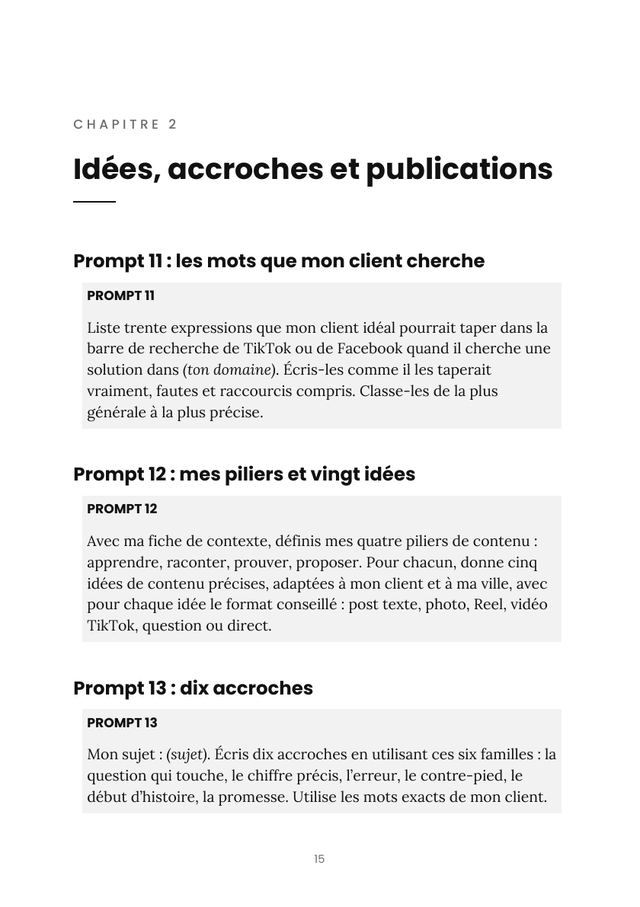
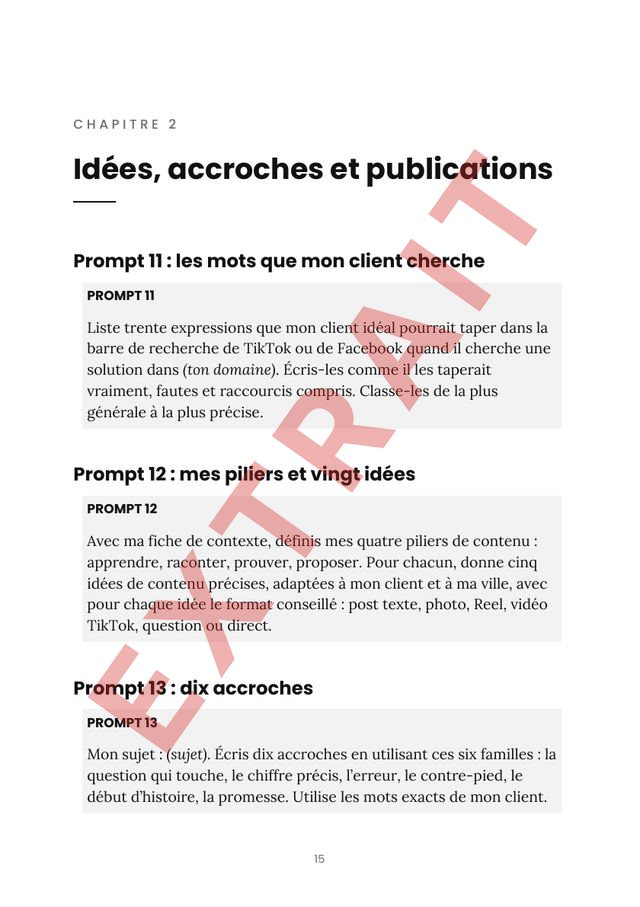
Extraits marqués « EXTRAIT » en rouge ; filigrane des PDF achetés plus grand et plus visible
Claude-Session: https://claude.ai/code/session_01SNjGUFU8ef62bMQC8mhdNt

diff --git a/src/glyphs.js b/src/glyphs.js
@@ -1,3 +1,3 @@
 // Généré par tools/glyphs.py (Inter Medium, 2048 unités par em).
 export const UPM = 2048;
-export const GLYPHS = {"a":[1163,"M461 -25C642 -25 748 66 791 153L802 153L802 0L1015 0L1015 742C1015 1065 758 1132 578 1132C379 1132 191 1054 115 854L322 800C353 876 435 953 581 953C721 953 795 881 795 757L795 751C795 672 710 673 513 650C302 626 83 570 83 316C83 96 248 -25 461 -25ZM510 152C387 152 299 207 299 313C299 428 401 470 525 487C593 496 763 514 796 546L796 403C796 272 689 152 510 152Z"],"b":[1266,"M703 -22C975 -22 1170 195 1170 556C1170 920 971 1132 703 1132C494 1132 419 1005 380 936L368 936L368 1490L148 1490L148 0L362 0L362 175L380 175C419 104 500 -22 703 -22ZM654 165C468 165 364 325 364 558C364 790 465 945 654 945C848 945 945 778 945 558C945 336 845 165 654 165Z"],"c":[1182,"M618 -23C853 -23 1035 104 1089 315L881 365C851 244 758 163 619 163C417 163 320 340 320 553C320 769 417 946 619 946C756 946 847 867 877 752L1086 802C1031 1009 850 1132 618 1132C303 1132 96 901 96 553C96 208 303 -23 618 -23Z"],"d":[1266,"M564 -22C766 -22 847 104 886 175L904 175L904 0L1118 0L1118 1490L898 1490L898 936L886 936C848 1005 772 1132 564 1132C295 1132 96 920 96 556C96 195 292 -22 564 -22ZM612 165C421 165 321 336 321 558C321 778 418 945 612 945C801 945 902 790 902 558C902 325 799 165 612 165Z"],"e":[1203,"M630 -23C869 -23 1040 94 1093 268L886 317C847 213 755 159 632 159C449 159 325 276 317 492L1110 492L1110 570C1110 973 866 1132 611 1132C298 1132 96 895 96 551C96 204 300 -23 630 -23ZM318 656C330 817 436 950 612 950C781 950 876 832 892 656Z"],"f":[777,"M702 1118L452 1118L452 1216C452 1314 495 1368 600 1368C646 1368 677 1358 698 1352L749 1530C719 1541 653 1560 565 1560C388 1560 232 1455 232 1246L232 1118L20 1118L20 939L232 939L232 0L452 0L452 939L702 939Z"],"g":[1269,"M616 -442C902 -442 1121 -310 1121 -16L1121 1118L906 1118L906 936L890 936C851 1006 772 1132 566 1132C297 1132 96 920 96 563C96 206 300 17 563 17C767 17 844 130 883 203L902 203L902 -15C902 -187 785 -265 615 -265C435 -265 365 -176 325 -112L141 -199C204 -334 357 -442 616 -442ZM614 200C422 200 321 348 321 566C321 779 419 945 614 945C803 945 903 790 903 566C903 337 800 200 614 200Z"],"h":[1232,"M368 662C368 839 478 940 628 940C774 940 864 844 864 683L864 0L1085 0L1085 710C1085 986 932 1132 704 1132C551 1132 436 1065 366 917L366 1490L148 1490L148 0L368 0Z"],"i":[516,"M148 0L368 0L368 1118L148 1118ZM259 1289C335 1289 398 1347 398 1419C398 1492 335 1550 259 1550C183 1550 120 1492 120 1419C120 1347 183 1289 259 1289Z"],"j":[516,"M147 1118L147 -71C147 -174 104 -229 1 -229L-34 -229L-34 -418L10 -418C241 -418 369 -300 368 -72L368 1118ZM258 1289C334 1289 397 1347 397 1419C397 1492 334 1550 258 1550C183 1550 120 1492 120 1419C120 1347 183 1289 258 1289Z"],"k":[1145,"M148 0L368 0L368 394L475 501L852 0L1124 0L643 636L1093 1118L829 1118L388 646L368 646L368 1490L148 1490Z"],"l":[516,"M368 1490L148 1490L148 0L368 0Z"],"m":[1819,"M148 0L368 0L368 695C368 858 474 944 597 944C715 944 801 865 801 746L801 0L1018 0L1018 716C1018 849 1102 944 1241 944C1355 944 1450 881 1450 732L1450 0L1671 0L1671 754C1671 1008 1515 1137 1317 1137C1158 1137 1020 1053 963 902C919 1050 823 1137 677 1137C544 1137 419 1064 362 909L357 1118L148 1118Z"],"n":[1232,"M368 662C368 839 478 940 628 940C774 940 864 844 864 683L864 0L1084 0L1084 710C1084 986 932 1132 704 1132C546 1132 429 1061 359 903L358 1118L148 1118L148 0L368 0Z"],"o":[1237,"M618 -23C933 -23 1141 208 1141 553C1141 901 933 1132 618 1132C303 1132 96 901 96 553C96 208 303 -23 618 -23ZM618 163C416 163 320 341 320 553C320 768 416 946 618 946C822 946 918 767 918 553C918 341 822 163 618 163Z"],"p":[1266,"M148 -418L368 -418L368 175L380 175C419 104 500 -22 703 -22C975 -22 1170 195 1170 556C1170 920 971 1132 703 1132C494 1132 419 1005 380 936L362 936L362 1118L148 1118ZM654 165C468 165 364 325 364 558C364 790 465 945 654 945C848 945 945 778 945 558C945 336 845 165 654 165Z"],"q":[1266,"M1118 -418L1118 1118L904 1118L904 936L886 936C848 1005 772 1132 564 1132C295 1132 96 920 96 556C96 195 292 -22 564 -22C766 -22 847 104 886 175L898 175L898 -418ZM612 165C421 165 321 336 321 558C321 778 418 945 612 945C801 945 902 790 902 558C902 325 799 165 612 165Z"],"r":[792,"M148 0L368 0L368 679C368 826 480 930 634 930C680 930 733 922 749 918L749 1128C726 1131 684 1134 656 1134C525 1134 414 1060 373 938L361 938L361 1118L148 1118Z"],"s":[1103,"M549 -23C822 -23 1010 121 1010 325C1010 480 912 580 705 627L525 667C402 695 352 739 352 813C352 897 444 958 565 958C697 958 760 888 789 810L986 853C938 1019 805 1132 563 1132C310 1132 130 999 130 799C130 639 230 537 438 490L626 447C732 423 783 377 783 306C783 223 693 155 551 155C421 155 336 209 305 326L98 283C138 85 306 -23 549 -23Z"],"t":[697,"M626 1118L403 1118L403 1384L183 1384L183 1118L20 1118L20 939L183 939L183 284C183 94 300 -15 503 -15C554 -15 610 -8 657 8L618 184C591 178 548 172 525 172C438 172 403 212 403 302L403 939L626 939Z"],"u":[1232,"M529 -14C683 -14 803 55 873 217L874 0L1085 0L1085 1118L864 1118L864 456C864 279 753 178 604 178C458 178 368 274 368 435L368 1118L148 1118L148 408C148 132 301 -14 529 -14Z"],"v":[1177,"M468 0L708 0L1130 1118L894 1118L673 483C639 384 615 286 590 188C565 286 539 384 505 483L284 1118L46 1118Z"],"w":[1698,"M393 0L614 0L752 481C785 596 817 733 849 867C880 733 911 598 945 481L1083 0L1304 0L1641 1118L1407 1118L1284 655C1252 531 1217 390 1183 221C1149 391 1113 533 1082 655L960 1118L740 1118L617 655C584 530 548 387 514 219C480 393 443 535 412 655L289 1118L57 1118Z"],"x":[1141,"M57 0L302 0L454 238C501 312 535 382 568 448C604 382 640 312 687 238L837 0L1084 0L703 566L1067 1118L823 1118L694 915C645 837 610 765 575 696C539 765 502 837 454 915L328 1118L80 1118L439 574Z"],"y":[1178,"M133 -402C160 -414 218 -426 287 -426C467 -426 578 -334 646 -155L1132 1118L896 1118L671 483C636 386 611 289 586 193C562 289 539 385 505 483L284 1118L46 1118L471 -5L447 -87C406 -231 326 -259 212 -229L187 -223Z"],"z":[1145,"M124 0L1021 0L1021 192L422 192L422 202L1001 956L1001 1118L143 1118L143 926L726 926L726 916L124 150Z"],"0":[1322,"M661 -20C1009 -20 1209 260 1209 744C1209 1227 1006 1510 661 1510C316 1510 113 1227 113 744C113 259 314 -20 661 -20ZM661 175C454 175 338 383 338 744C338 1106 454 1316 661 1316C867 1316 983 1107 983 744C983 383 867 175 661 175Z"],"1":[850,"M685 1490L421 1490L95 1254L95 1025L449 1283L459 1283L459 0L685 0Z"],"2":[1262,"M144 0L1128 0L1128 195L460 195L460 207L752 512C1029 792 1105 923 1105 1086C1105 1327 909 1510 626 1510C347 1510 142 1328 142 1056L361 1056C361 1216 463 1319 622 1319C773 1319 886 1227 886 1078C886 947 805 851 650 688L144 165Z"],"3":[1284,"M643 -20C948 -20 1171 162 1171 409C1171 596 1059 732 860 763L860 774C1016 815 1117 936 1117 1104C1117 1323 936 1510 649 1510C373 1510 154 1343 147 1102L367 1102C372 1238 501 1319 645 1319C796 1319 895 1228 895 1091C895 949 781 855 617 855L490 855L490 669L617 669C822 669 940 565 940 417C940 273 815 176 641 176C481 176 356 258 347 390L116 390C124 146 340 -20 643 -20Z"],"4":[1344,"M114 290L819 290L819 0L1038 0L1038 290L1234 290L1234 484L1038 484L1038 1490L756 1490L114 474ZM821 484L352 484L352 496L809 1219L821 1219Z"],"5":[1266,"M639 -20C939 -20 1154 192 1154 482C1154 770 954 978 682 978C570 978 467 937 409 879L401 879L448 1295L1080 1295L1080 1490L257 1490L174 737L384 707C439 756 538 791 629 791C804 791 931 659 931 478C931 299 808 172 639 172C496 172 380 262 370 390L148 390C157 153 362 -20 639 -20Z"],"6":[1290,"M659 -20C971 -20 1178 201 1178 487C1178 772 971 976 713 976C556 976 420 900 344 774L333 774C333 1111 459 1310 678 1310C820 1310 910 1223 940 1102L1164 1102C1130 1340 942 1510 678 1510C330 1510 113 1212 113 695C113 147 392 -20 659 -20ZM658 172C487 172 361 316 361 482C361 647 493 791 662 791C831 791 956 655 956 484C956 309 826 172 658 172Z"],"7":[1170,"M192 0L431 0L1079 1287L1079 1490L90 1490L90 1295L840 1295L840 1283Z"],"8":[1289,"M644 -20C955 -20 1177 155 1177 397C1177 585 1043 743 876 773L876 781C1021 817 1121 953 1121 1113C1121 1340 917 1510 644 1510C368 1510 167 1341 167 1113C167 953 264 817 414 781L414 773C242 743 113 585 113 397C113 155 331 -20 644 -20ZM644 165C459 165 343 264 343 412C343 566 469 676 644 676C816 676 944 566 944 412C944 264 826 165 644 165ZM644 857C494 857 389 952 389 1092C389 1232 491 1323 644 1323C795 1323 899 1231 899 1092C899 952 791 857 644 857Z"],"9":[1290,"M614 -21C961 -21 1178 278 1178 796C1178 1343 898 1507 635 1511C321 1515 113 1290 113 1004C113 720 319 515 579 515C737 515 872 593 948 717L959 717C959 378 831 179 614 179C470 179 380 268 352 391L126 391C159 150 347 -21 614 -21ZM628 700C459 700 336 835 336 1008C336 1180 464 1318 633 1318C805 1318 931 1173 931 1011C931 845 798 700 628 700Z"],".":[621,"M311 -15C393 -15 458 50 458 132C458 215 393 280 311 280C228 280 163 215 163 132C163 50 228 -15 311 -15Z"],"-":[947,"M805 724L143 724L143 533L805 533Z"],"_":[948,"M948 0L0 0L0 -188L948 -188Z"],"+":[1367,"M585 94L782 94L782 494L1176 494L1176 680L782 680L782 1080L585 1080L585 680L191 680L191 494L585 494Z"],"@":[2012,"M1050 -406C1219 -406 1410 -360 1504 -318L1449 -156C1382 -181 1223 -233 1062 -233C571 -233 308 38 308 521C308 996 573 1280 1035 1280C1493 1280 1713 979 1713 628C1713 324 1675 188 1536 188C1458 188 1418 248 1418 323L1418 987L1244 987L1244 897L1234 897C1197 956 1105 1011 977 1011C731 1011 556 809 556 532C556 245 699 33 968 33C1121 33 1215 106 1251 197L1259 197C1277 75 1420 29 1532 29C1837 29 1900 333 1900 634C1900 1068 1591 1452 1033 1452C450 1452 113 1093 113 522C113 -70 449 -406 1050 -406ZM982 206C804 206 733 360 733 539C733 703 826 835 986 835C1154 835 1244 762 1244 539C1244 317 1166 206 982 206Z"],"%":[2034,"M519 814C715 814 821 956 821 1125L821 1203C821 1371 718 1514 519 1514C325 1514 215 1372 215 1203L215 1125C215 957 321 814 519 814ZM1516 -28C1712 -28 1819 114 1819 283L1819 361C1819 530 1715 672 1516 672C1322 672 1213 530 1213 361L1213 283C1213 115 1318 -28 1516 -28ZM409 0L591 0L1615 1490L1433 1490ZM1516 120C1418 120 1384 200 1384 283L1384 361C1384 443 1420 525 1516 525C1617 525 1647 444 1647 361L1647 283C1647 200 1614 120 1516 120ZM519 962C421 962 387 1041 387 1125L387 1203C387 1285 423 1367 519 1367C619 1367 650 1286 650 1203L650 1125C650 1041 616 962 519 962Z"],"'":[641,"M232 905L408 905L433 1490L207 1490Z"],"E":[1235,"M165 0L1109 0L1109 196L393 196L393 655L1053 655L1053 850L393 850L393 1294L1103 1294L1103 1490L165 1490Z"]," ":[546,""],":":[621,"M311 772C393 772 458 837 458 919C458 1001 393 1066 311 1066C228 1066 163 1001 163 919C163 837 228 772 311 772ZM311 -15C393 -15 458 50 458 132C458 215 393 280 311 280C228 280 163 215 163 132C163 50 228 -15 311 -15Z"]};
+export const GLYPHS = {"a":[1163,"M461 -25C642 -25 748 66 791 153L802 153L802 0L1015 0L1015 742C1015 1065 758 1132 578 1132C379 1132 191 1054 115 854L322 800C353 876 435 953 581 953C721 953 795 881 795 757L795 751C795 672 710 673 513 650C302 626 83 570 83 316C83 96 248 -25 461 -25ZM510 152C387 152 299 207 299 313C299 428 401 470 525 487C593 496 763 514 796 546L796 403C796 272 689 152 510 152Z"],"b":[1266,"M703 -22C975 -22 1170 195 1170 556C1170 920 971 1132 703 1132C494 1132 419 1005 380 936L368 936L368 1490L148 1490L148 0L362 0L362 175L380 175C419 104 500 -22 703 -22ZM654 165C468 165 364 325 364 558C364 790 465 945 654 945C848 945 945 778 945 558C945 336 845 165 654 165Z"],"c":[1182,"M618 -23C853 -23 1035 104 1089 315L881 365C851 244 758 163 619 163C417 163 320 340 320 553C320 769 417 946 619 946C756 946 847 867 877 752L1086 802C1031 1009 850 1132 618 1132C303 1132 96 901 96 553C96 208 303 -23 618 -23Z"],"d":[1266,"M564 -22C766 -22 847 104 886 175L904 175L904 0L1118 0L1118 1490L898 1490L898 936L886 936C848 1005 772 1132 564 1132C295 1132 96 920 96 556C96 195 292 -22 564 -22ZM612 165C421 165 321 336 321 558C321 778 418 945 612 945C801 945 902 790 902 558C902 325 799 165 612 165Z"],"e":[1203,"M630 -23C869 -23 1040 94 1093 268L886 317C847 213 755 159 632 159C449 159 325 276 317 492L1110 492L1110 570C1110 973 866 1132 611 1132C298 1132 96 895 96 551C96 204 300 -23 630 -23ZM318 656C330 817 436 950 612 950C781 950 876 832 892 656Z"],"f":[777,"M702 1118L452 1118L452 1216C452 1314 495 1368 600 1368C646 1368 677 1358 698 1352L749 1530C719 1541 653 1560 565 1560C388 1560 232 1455 232 1246L232 1118L20 1118L20 939L232 939L232 0L452 0L452 939L702 939Z"],"g":[1269,"M616 -442C902 -442 1121 -310 1121 -16L1121 1118L906 1118L906 936L890 936C851 1006 772 1132 566 1132C297 1132 96 920 96 563C96 206 300 17 563 17C767 17 844 130 883 203L902 203L902 -15C902 -187 785 -265 615 -265C435 -265 365 -176 325 -112L141 -199C204 -334 357 -442 616 -442ZM614 200C422 200 321 348 321 566C321 779 419 945 614 945C803 945 903 790 903 566C903 337 800 200 614 200Z"],"h":[1232,"M368 662C368 839 478 940 628 940C774 940 864 844 864 683L864 0L1085 0L1085 710C1085 986 932 1132 704 1132C551 1132 436 1065 366 917L366 1490L148 1490L148 0L368 0Z"],"i":[516,"M148 0L368 0L368 1118L148 1118ZM259 1289C335 1289 398 1347 398 1419C398 1492 335 1550 259 1550C183 1550 120 1492 120 1419C120 1347 183 1289 259 1289Z"],"j":[516,"M147 1118L147 -71C147 -174 104 -229 1 -229L-34 -229L-34 -418L10 -418C241 -418 369 -300 368 -72L368 1118ZM258 1289C334 1289 397 1347 397 1419C397 1492 334 1550 258 1550C183 1550 120 1492 120 1419C120 1347 183 1289 258 1289Z"],"k":[1145,"M148 0L368 0L368 394L475 501L852 0L1124 0L643 636L1093 1118L829 1118L388 646L368 646L368 1490L148 1490Z"],"l":[516,"M368 1490L148 1490L148 0L368 0Z"],"m":[1819,"M148 0L368 0L368 695C368 858 474 944 597 944C715 944 801 865 801 746L801 0L1018 0L1018 716C1018 849 1102 944 1241 944C1355 944 1450 881 1450 732L1450 0L1671 0L1671 754C1671 1008 1515 1137 1317 1137C1158 1137 1020 1053 963 902C919 1050 823 1137 677 1137C544 1137 419 1064 362 909L357 1118L148 1118Z"],"n":[1232,"M368 662C368 839 478 940 628 940C774 940 864 844 864 683L864 0L1084 0L1084 710C1084 986 932 1132 704 1132C546 1132 429 1061 359 903L358 1118L148 1118L148 0L368 0Z"],"o":[1237,"M618 -23C933 -23 1141 208 1141 553C1141 901 933 1132 618 1132C303 1132 96 901 96 553C96 208 303 -23 618 -23ZM618 163C416 163 320 341 320 553C320 768 416 946 618 946C822 946 918 767 918 553C918 341 822 163 618 163Z"],"p":[1266,"M148 -418L368 -418L368 175L380 175C419 104 500 -22 703 -22C975 -22 1170 195 1170 556C1170 920 971 1132 703 1132C494 1132 419 1005 380 936L362 936L362 1118L148 1118ZM654 165C468 165 364 325 364 558C364 790 465 945 654 945C848 945 945 778 945 558C945 336 845 165 654 165Z"],"q":[1266,"M1118 -418L1118 1118L904 1118L904 936L886 936C848 1005 772 1132 564 1132C295 1132 96 920 96 556C96 195 292 -22 564 -22C766 -22 847 104 886 175L898 175L898 -418ZM612 165C421 165 321 336 321 558C321 778 418 945 612 945C801 945 902 790 902 558C902 325 799 165 612 165Z"],"r":[792,"M148 0L368 0L368 679C368 826 480 930 634 930C680 930 733 922 749 918L749 1128C726 1131 684 1134 656 1134C525 1134 414 1060 373 938L361 938L361 1118L148 1118Z"],"s":[1103,"M549 -23C822 -23 1010 121 1010 325C1010 480 912 580 705 627L525 667C402 695 352 739 352 813C352 897 444 958 565 958C697 958 760 888 789 810L986 853C938 1019 805 1132 563 1132C310 1132 130 999 130 799C130 639 230 537 438 490L626 447C732 423 783 377 783 306C783 223 693 155 551 155C421 155 336 209 305 326L98 283C138 85 306 -23 549 -23Z"],"t":[697,"M626 1118L403 1118L403 1384L183 1384L183 1118L20 1118L20 939L183 939L183 284C183 94 300 -15 503 -15C554 -15 610 -8 657 8L618 184C591 178 548 172 525 172C438 172 403 212 403 302L403 939L626 939Z"],"u":[1232,"M529 -14C683 -14 803 55 873 217L874 0L1085 0L1085 1118L864 1118L864 456C864 279 753 178 604 178C458 178 368 274 368 435L368 1118L148 1118L148 408C148 132 301 -14 529 -14Z"],"v":[1177,"M468 0L708 0L1130 1118L894 1118L673 483C639 384 615 286 590 188C565 286 539 384 505 483L284 1118L46 1118Z"],"w":[1698,"M393 0L614 0L752 481C785 596 817 733 849 867C880 733 911 598 945 481L1083 0L1304 0L1641 1118L1407 1118L1284 655C1252 531 1217 390 1183 221C1149 391 1113 533 1082 655L960 1118L740 1118L617 655C584 530 548 387 514 219C480 393 443 535 412 655L289 1118L57 1118Z"],"x":[1141,"M57 0L302 0L454 238C501 312 535 382 568 448C604 382 640 312 687 238L837 0L1084 0L703 566L1067 1118L823 1118L694 915C645 837 610 765 575 696C539 765 502 837 454 915L328 1118L80 1118L439 574Z"],"y":[1178,"M133 -402C160 -414 218 -426 287 -426C467 -426 578 -334 646 -155L1132 1118L896 1118L671 483C636 386 611 289 586 193C562 289 539 385 505 483L284 1118L46 1118L471 -5L447 -87C406 -231 326 -259 212 -229L187 -223Z"],"z":[1145,"M124 0L1021 0L1021 192L422 192L422 202L1001 956L1001 1118L143 1118L143 926L726 926L726 916L124 150Z"],"A":[1452,"M51 0L298 0L431 393L1017 393L1154 0L1401 0L861 1490L581 1490ZM496 583L579 829C616 943 662 1098 720 1311C779 1100 824 948 864 829L950 583Z"],"B":[1345,"M165 0L738 0C1084 0 1241 173 1241 402C1241 631 1080 761 931 769L931 784C1069 818 1183 913 1183 1099C1183 1319 1030 1490 714 1490L165 1490ZM393 196L393 669L724 669C902 669 1015 554 1015 413C1015 289 929 196 715 196ZM393 845L393 1295L698 1295C875 1295 959 1202 959 1080C959 937 843 845 692 845Z"],"C":[1502,"M784 -20C1113 -20 1353 188 1399 483L1169 483C1131 293 972 188 786 188C531 188 339 382 339 744C339 1104 530 1302 786 1302C972 1302 1131 1198 1169 1008L1398 1008C1348 1324 1098 1510 784 1510C398 1510 113 1222 113 744C113 268 397 -20 784 -20Z"],"D":[1478,"M650 0C1103 0 1366 281 1366 747C1366 1210 1103 1490 664 1490L165 1490L165 0ZM393 200L393 1290L649 1290C974 1290 1142 1097 1142 747C1142 394 974 200 637 200Z"],"E":[1235,"M165 0L1109 0L1109 196L393 196L393 655L1053 655L1053 850L393 850L393 1294L1103 1294L1103 1490L165 1490Z"],"F":[1207,"M165 0L393 0L393 620L1025 620L1025 815L393 815L393 1294L1092 1294L1092 1490L165 1490Z"],"G":[1531,"M791 -20C1152 -20 1413 216 1413 593L1413 764L825 764L825 576L1190 576C1185 338 1028 188 792 188C529 188 339 386 339 745C339 1105 532 1302 783 1302C979 1302 1112 1193 1166 1019L1400 1019C1350 1309 1102 1510 781 1510C395 1510 113 1220 113 744C113 273 386 -20 791 -20Z"],"H":[1525,"M165 0L393 0L393 664L1131 664L1131 0L1360 0L1360 1490L1131 1490L1131 860L393 860L393 1490L165 1490Z"],"I":[558,"M393 1490L165 1490L165 0L393 0Z"],"J":[1178,"M552 -20C830 -20 1013 143 1013 434L1013 1490L786 1490L786 432C786 263 693 173 552 173C411 173 318 263 318 432L318 516L89 516L89 433C89 143 274 -20 552 -20Z"],"K":[1408,"M165 0L393 0L393 468L602 692L1083 0L1353 0L761 845L1347 1490L1057 1490L639 1027C544 920 466 824 390 717L393 1014L393 1490L165 1490Z"],"L":[1158,"M165 0L1068 0L1068 196L393 196L393 1490L165 1490Z"],"M":[1869,"M165 0L387 0L387 802C387 916 382 1107 378 1263C435 1079 494 892 528 802L837 0L1032 0L1337 802C1371 895 1433 1087 1486 1268C1483 1102 1478 912 1478 802L1478 0L1705 0L1705 1490L1367 1490L1047 635C1018 553 971 387 936 254C902 390 855 555 826 635L501 1490L165 1490Z"],"N":[1549,"M165 0L396 0L396 795C396 872 388 1026 379 1213C487 1013 544 910 617 793L1120 0L1384 0L1384 1490L1153 1490L1153 642C1153 556 1157 417 1168 273C1102 416 1035 529 989 603L428 1490L165 1490Z"],"O":[1570,"M786 -20C1172 -20 1457 268 1457 744C1457 1222 1172 1510 786 1510C399 1510 113 1222 113 744C113 268 399 -20 786 -20ZM786 188C530 188 339 384 339 744C339 1105 530 1302 786 1302C1040 1302 1231 1106 1231 744C1231 384 1040 188 786 188Z"],"P":[1314,"M165 0L393 0L393 522L697 522C1043 522 1215 731 1215 1006C1215 1281 1044 1490 699 1490L165 1490ZM393 715L393 1295L673 1295C894 1295 984 1174 984 1006C984 838 894 715 675 715Z"],"Q":[1574,"M786 -20C882 -20 971 -2 1052 32L1179 -135L1406 -135L1207 126C1362 256 1457 468 1457 744C1457 1222 1172 1510 786 1510C399 1510 113 1222 113 744C113 268 399 -20 786 -20ZM713 481L921 208C878 195 833 188 786 188C530 188 339 384 339 744C339 1105 530 1302 786 1302C1040 1302 1231 1106 1231 744C1231 541 1171 391 1073 298L932 481Z"],"R":[1327,"M165 0L393 0L393 563L697 563C701 563 706 563 710 563L1012 0L1271 0L943 602C1124 670 1215 822 1215 1022C1215 1297 1044 1490 699 1490L165 1490ZM393 758L393 1295L673 1295C893 1295 984 1190 984 1022C984 855 893 758 675 758Z"],"S":[1323,"M665 -25C1015 -25 1217 159 1217 412C1217 681 978 783 788 832L643 870C529 900 375 953 375 1094C375 1220 489 1312 670 1312C839 1312 960 1234 975 1098L1197 1098C1190 1335 981 1510 675 1510C375 1510 147 1339 147 1081C147 877 291 752 535 687L709 639C869 596 992 545 992 415C992 271 853 175 664 175C492 175 348 251 335 414L106 414C120 142 330 -25 665 -25Z"],"T":[1337,"M90 1294L555 1294L555 0L784 0L784 1294L1247 1294L1247 1490L90 1490Z"],"U":[1516,"M759 -23C1115 -23 1351 199 1351 512L1351 1490L1122 1490L1122 531C1122 330 983 184 759 184C534 184 393 330 393 531L393 1490L165 1490L165 512C165 199 400 -23 759 -23Z"],"V":[1452,"M590 0L869 0L1401 1490L1154 1490L872 661C835 548 789 395 731 183C672 391 625 548 587 661L297 1490L51 1490Z"],"W":[2054,"M455 0L719 0L955 883C984 993 1004 1103 1026 1225C1048 1096 1071 983 1097 883L1334 0L1597 0L2003 1490L1761 1490L1546 636C1515 506 1487 364 1461 223C1433 364 1405 506 1371 636L1152 1490L902 1490L681 636C647 505 618 361 591 217C566 361 538 505 506 636L291 1490L51 1490Z"],"X":[1435,"M55 0L317 0L563 356C638 465 673 522 718 608C764 520 797 464 871 356L1114 0L1380 0L852 770L1347 1490L1088 1490L887 1196C805 1075 768 1008 720 914C672 1009 637 1074 555 1196L358 1490L93 1490L589 763Z"],"Y":[1426,"M600 0L828 0L828 593L1375 1490L1110 1490L833 1015C789 940 753 873 716 783C679 871 643 937 597 1015L317 1490L51 1490L600 593Z"],"Z":[1312,"M125 0L1193 0L1193 196L686 196C586 196 487 196 388 191C445 263 502 336 552 409L1187 1338L1187 1490L119 1490L119 1294L630 1294C728 1294 826 1294 924 1299C870 1231 817 1163 770 1095L125 150Z"],"0":[1322,"M661 -20C1009 -20 1209 260 1209 744C1209 1227 1006 1510 661 1510C316 1510 113 1227 113 744C113 259 314 -20 661 -20ZM661 175C454 175 338 383 338 744C338 1106 454 1316 661 1316C867 1316 983 1107 983 744C983 383 867 175 661 175Z"],"1":[850,"M685 1490L421 1490L95 1254L95 1025L449 1283L459 1283L459 0L685 0Z"],"2":[1262,"M144 0L1128 0L1128 195L460 195L460 207L752 512C1029 792 1105 923 1105 1086C1105 1327 909 1510 626 1510C347 1510 142 1328 142 1056L361 1056C361 1216 463 1319 622 1319C773 1319 886 1227 886 1078C886 947 805 851 650 688L144 165Z"],"3":[1284,"M643 -20C948 -20 1171 162 1171 409C1171 596 1059 732 860 763L860 774C1016 815 1117 936 1117 1104C1117 1323 936 1510 649 1510C373 1510 154 1343 147 1102L367 1102C372 1238 501 1319 645 1319C796 1319 895 1228 895 1091C895 949 781 855 617 855L490 855L490 669L617 669C822 669 940 565 940 417C940 273 815 176 641 176C481 176 356 258 347 390L116 390C124 146 340 -20 643 -20Z"],"4":[1344,"M114 290L819 290L819 0L1038 0L1038 290L1234 290L1234 484L1038 484L1038 1490L756 1490L114 474ZM821 484L352 484L352 496L809 1219L821 1219Z"],"5":[1266,"M639 -20C939 -20 1154 192 1154 482C1154 770 954 978 682 978C570 978 467 937 409 879L401 879L448 1295L1080 1295L1080 1490L257 1490L174 737L384 707C439 756 538 791 629 791C804 791 931 659 931 478C931 299 808 172 639 172C496 172 380 262 370 390L148 390C157 153 362 -20 639 -20Z"],"6":[1290,"M659 -20C971 -20 1178 201 1178 487C1178 772 971 976 713 976C556 976 420 900 344 774L333 774C333 1111 459 1310 678 1310C820 1310 910 1223 940 1102L1164 1102C1130 1340 942 1510 678 1510C330 1510 113 1212 113 695C113 147 392 -20 659 -20ZM658 172C487 172 361 316 361 482C361 647 493 791 662 791C831 791 956 655 956 484C956 309 826 172 658 172Z"],"7":[1170,"M192 0L431 0L1079 1287L1079 1490L90 1490L90 1295L840 1295L840 1283Z"],"8":[1289,"M644 -20C955 -20 1177 155 1177 397C1177 585 1043 743 876 773L876 781C1021 817 1121 953 1121 1113C1121 1340 917 1510 644 1510C368 1510 167 1341 167 1113C167 953 264 817 414 781L414 773C242 743 113 585 113 397C113 155 331 -20 644 -20ZM644 165C459 165 343 264 343 412C343 566 469 676 644 676C816 676 944 566 944 412C944 264 826 165 644 165ZM644 857C494 857 389 952 389 1092C389 1232 491 1323 644 1323C795 1323 899 1231 899 1092C899 952 791 857 644 857Z"],"9":[1290,"M614 -21C961 -21 1178 278 1178 796C1178 1343 898 1507 635 1511C321 1515 113 1290 113 1004C113 720 319 515 579 515C737 515 872 593 948 717L959 717C959 378 831 179 614 179C470 179 380 268 352 391L126 391C159 150 347 -21 614 -21ZM628 700C459 700 336 835 336 1008C336 1180 464 1318 633 1318C805 1318 931 1173 931 1011C931 845 798 700 628 700Z"],".":[621,"M311 -15C393 -15 458 50 458 132C458 215 393 280 311 280C228 280 163 215 163 132C163 50 228 -15 311 -15Z"],",":[621,"M125 -371L285 -371L450 214L213 214Z"],";":[646,"M125 -371L285 -371L450 214L213 214ZM335 772C418 772 483 837 483 919C483 1001 418 1066 335 1066C253 1066 188 1001 188 919C188 837 253 772 335 772Z"],"!":[623,"M205 477L417 477L433 1490L189 1490ZM312 -15C396 -15 461 48 461 131C461 214 396 277 312 277C227 277 163 214 163 131C163 48 227 -15 312 -15Z"],"?":[1080,"M385 452L595 452L595 467C595 633 645 684 770 760C902 840 980 950 980 1114C980 1350 800 1510 532 1510C288 1510 89 1368 81 1104L304 1104C313 1256 421 1323 532 1323C655 1323 754 1242 754 1115C754 1006 686 930 597 876C464 795 385 734 385 467ZM492 -15C576 -15 641 48 641 131C641 214 576 277 492 277C407 277 343 214 343 131C343 48 407 -15 492 -15Z"],"-":[947,"M805 724L143 724L143 533L805 533Z"],"_":[948,"M948 0L0 0L0 -188L948 -188Z"],"+":[1367,"M585 94L782 94L782 494L1176 494L1176 680L782 680L782 1080L585 1080L585 680L191 680L191 494L585 494Z"],"@":[2012,"M1050 -406C1219 -406 1410 -360 1504 -318L1449 -156C1382 -181 1223 -233 1062 -233C571 -233 308 38 308 521C308 996 573 1280 1035 1280C1493 1280 1713 979 1713 628C1713 324 1675 188 1536 188C1458 188 1418 248 1418 323L1418 987L1244 987L1244 897L1234 897C1197 956 1105 1011 977 1011C731 1011 556 809 556 532C556 245 699 33 968 33C1121 33 1215 106 1251 197L1259 197C1277 75 1420 29 1532 29C1837 29 1900 333 1900 634C1900 1068 1591 1452 1033 1452C450 1452 113 1093 113 522C113 -70 449 -406 1050 -406ZM982 206C804 206 733 360 733 539C733 703 826 835 986 835C1154 835 1244 762 1244 539C1244 317 1166 206 982 206Z"],"%":[2034,"M519 814C715 814 821 956 821 1125L821 1203C821 1371 718 1514 519 1514C325 1514 215 1372 215 1203L215 1125C215 957 321 814 519 814ZM1516 -28C1712 -28 1819 114 1819 283L1819 361C1819 530 1715 672 1516 672C1322 672 1213 530 1213 361L1213 283C1213 115 1318 -28 1516 -28ZM409 0L591 0L1615 1490L1433 1490ZM1516 120C1418 120 1384 200 1384 283L1384 361C1384 443 1420 525 1516 525C1617 525 1647 444 1647 361L1647 283C1647 200 1614 120 1516 120ZM519 962C421 962 387 1041 387 1125L387 1203C387 1285 423 1367 519 1367C619 1367 650 1286 650 1203L650 1125C650 1041 616 962 519 962Z"],"'":[641,"M232 905L408 905L433 1490L207 1490Z"],"\u2019":[568,"M162 905L322 905L487 1490L250 1490Z"]," ":[546,""],":":[621,"M311 772C393 772 458 837 458 919C458 1001 393 1066 311 1066C228 1066 163 1001 163 919C163 837 228 772 311 772ZM311 -15C393 -15 458 50 458 132C458 215 393 280 311 280C228 280 163 215 163 132C163 50 228 -15 311 -15Z"],"(":[755,"M202 607C202 312 290 7 460 -279L669 -279C500 82 426 343 426 607C426 902 518 1267 669 1581L460 1581C309 1336 202 934 202 607Z"],")":[755,"M86 -279L296 -279C463 3 554 308 554 607C554 933 446 1337 296 1581L86 1581C238 1267 330 902 330 607C330 349 260 91 86 -279Z"],"/":[757,"M717 1560L520 1560L40 -224L237 -224Z"],"&":[1338,"M580 -21C713 -21 863 23 964 116L1064 0L1314 0L1101 254C1165 338 1225 472 1225 679L1026 679C1026 579 1003 490 965 416L668 769L770 844C888 931 968 1037 968 1174C968 1357 827 1505 598 1505C370 1505 221 1357 221 1155C221 1019 288 915 384 799C215 677 96 575 96 390C96 160 280 -21 580 -21ZM840 262C763 199 669 165 574 165C421 165 317 255 317 390C317 478 361 543 470 624L508 652ZM547 914C475 1002 428 1073 428 1155C428 1254 497 1321 602 1321C704 1321 766 1258 766 1172C766 1079 695 1020 639 980Z"],"\u00e9":[1203,"M630 -23C869 -23 1040 94 1093 268L886 317C847 213 755 159 632 159C449 159 325 276 317 492L1110 492L1110 570C1110 973 866 1132 611 1132C298 1132 96 895 96 551C96 204 300 -23 630 -23ZM318 656C330 817 436 950 612 950C781 950 876 832 892 656ZM518 1263L686 1263L884 1562L657 1562Z"],"\u00e8":[1203,"M630 -23C869 -23 1040 94 1093 268L886 317C847 213 755 159 632 159C449 159 325 276 317 492L1110 492L1110 570C1110 973 866 1132 611 1132C298 1132 96 895 96 551C96 204 300 -23 630 -23ZM318 656C330 817 436 950 612 950C781 950 876 832 892 656ZM525 1263L694 1263L554 1562L327 1562Z"],"\u00ea":[1203,"M630 -23C869 -23 1040 94 1093 268L886 317C847 213 755 159 632 159C449 159 325 276 317 492L1110 492L1110 570C1110 973 866 1132 611 1132C298 1132 96 895 96 551C96 204 300 -23 630 -23ZM318 656C330 817 436 950 612 950C781 950 876 832 892 656ZM463 1277L606 1451L748 1277L955 1277L955 1286L701 1562L511 1562L258 1286L258 1277Z"],"\u00eb":[1203,"M630 -23C869 -23 1040 94 1093 268L886 317C847 213 755 159 632 159C449 159 325 276 317 492L1110 492L1110 570C1110 973 866 1132 611 1132C298 1132 96 895 96 551C96 204 300 -23 630 -23ZM318 656C330 817 436 950 612 950C781 950 876 832 892 656ZM821 1291C892 1291 949 1349 949 1419C949 1489 892 1546 821 1546C749 1546 692 1489 692 1419C692 1349 749 1291 821 1291ZM393 1291C463 1291 521 1349 521 1419C521 1489 463 1546 393 1546C321 1546 263 1489 263 1419C263 1349 321 1291 393 1291Z"],"\u00e0":[1163,"M461 -25C642 -25 748 66 791 153L802 153L802 0L1015 0L1015 742C1015 1065 758 1132 578 1132C379 1132 191 1054 115 854L322 800C353 876 435 953 581 953C721 953 795 881 795 757L795 751C795 672 710 673 513 650C302 626 83 570 83 316C83 96 248 -25 461 -25ZM510 152C387 152 299 207 299 313C299 428 401 470 525 487C593 496 763 514 796 546L796 403C796 272 689 152 510 152ZM487 1263L656 1263L516 1562L289 1562Z"],"\u00e2":[1163,"M461 -25C642 -25 748 66 791 153L802 153L802 0L1015 0L1015 742C1015 1065 758 1132 578 1132C379 1132 191 1054 115 854L322 800C353 876 435 953 581 953C721 953 795 881 795 757L795 751C795 672 710 673 513 650C302 626 83 570 83 316C83 96 248 -25 461 -25ZM510 152C387 152 299 207 299 313C299 428 401 470 525 487C593 496 763 514 796 546L796 403C796 272 689 152 510 152ZM425 1277L568 1451L710 1277L917 1277L917 1286L663 1562L473 1562L220 1286L220 1277Z"],"\u00e4":[1163,"M461 -25C642 -25 748 66 791 153L802 153L802 0L1015 0L1015 742C1015 1065 758 1132 578 1132C379 1132 191 1054 115 854L322 800C353 876 435 953 581 953C721 953 795 881 795 757L795 751C795 672 710 673 513 650C302 626 83 570 83 316C83 96 248 -25 461 -25ZM510 152C387 152 299 207 299 313C299 428 401 470 525 487C593 496 763 514 796 546L796 403C796 272 689 152 510 152ZM355 1291C425 1291 483 1349 483 1419C483 1489 425 1546 355 1546C283 1546 225 1489 225 1419C225 1349 283 1291 355 1291ZM783 1291C854 1291 911 1349 911 1419C911 1489 854 1546 783 1546C711 1546 654 1489 654 1419C654 1349 711 1291 783 1291Z"],"\u00e7":[1182,"M501 -418L627 -418C789 -418 861 -367 861 -247C861 -140 798 -88 669 -87L670 -21C880 -3 1039 120 1089 315L881 365C851 244 758 163 619 163C417 163 320 340 320 553C320 769 417 946 619 946C756 946 847 867 877 752L1086 802C1031 1009 850 1132 618 1132C303 1132 96 901 96 553C96 230 278 6 560 -21L537 -180L622 -180C692 -180 717 -196 717 -244C717 -291 692 -308 622 -308L501 -308Z"],"\u00ee":[516,"M148 0L368 0L368 1118L148 1118ZM115 1277L259 1451L401 1277L607 1277L607 1286L353 1562L163 1562L-90 1286L-90 1277Z"],"\u00ef":[516,"M148 0L368 0L368 1118L148 1118ZM473 1291C544 1291 602 1349 602 1419C602 1489 544 1546 473 1546C402 1546 344 1489 344 1419C344 1349 402 1291 473 1291ZM45 1291C116 1291 173 1349 173 1419C173 1489 116 1546 45 1546C-27 1546 -84 1489 -84 1419C-84 1349 -27 1291 45 1291Z"],"\u00f4":[1237,"M618 -23C933 -23 1141 208 1141 553C1141 901 933 1132 618 1132C303 1132 96 901 96 553C96 208 303 -23 618 -23ZM618 163C416 163 320 341 320 553C320 768 416 946 618 946C822 946 918 767 918 553C918 341 822 163 618 163ZM474 1277L618 1451L760 1277L966 1277L966 1286L713 1562L522 1562L269 1286L269 1277Z"],"\u00f6":[1237,"M618 -23C933 -23 1141 208 1141 553C1141 901 933 1132 618 1132C303 1132 96 901 96 553C96 208 303 -23 618 -23ZM618 163C416 163 320 341 320 553C320 768 416 946 618 946C822 946 918 767 918 553C918 341 822 163 618 163ZM404 1291C475 1291 533 1349 533 1419C533 1489 475 1546 404 1546C333 1546 275 1489 275 1419C275 1349 333 1291 404 1291ZM832 1291C903 1291 961 1349 961 1419C961 1489 903 1546 832 1546C761 1546 703 1489 703 1419C703 1349 761 1291 832 1291Z"],"\u00fb":[1232,"M529 -14C683 -14 803 55 873 217L874 0L1085 0L1085 1118L864 1118L864 456C864 279 753 178 604 178C458 178 368 274 368 435L368 1118L148 1118L148 408C148 132 301 -14 529 -14ZM472 1277L616 1451L758 1277L965 1277L965 1286L711 1562L520 1562L267 1286L267 1277Z"],"\u00f9":[1232,"M529 -14C683 -14 803 55 873 217L874 0L1085 0L1085 1118L864 1118L864 456C864 279 753 178 604 178C458 178 368 274 368 435L368 1118L148 1118L148 408C148 132 301 -14 529 -14ZM534 1263L703 1263L564 1562L337 1562Z"],"\u00fc":[1232,"M529 -14C683 -14 803 55 873 217L874 0L1085 0L1085 1118L864 1118L864 456C864 279 753 178 604 178C458 178 368 274 368 435L368 1118L148 1118L148 408C148 132 301 -14 529 -14ZM831 1291C901 1291 959 1349 959 1419C959 1489 901 1546 831 1546C759 1546 701 1489 701 1419C701 1349 759 1291 831 1291ZM402 1291C473 1291 531 1349 531 1419C531 1489 473 1546 402 1546C331 1546 273 1489 273 1419C273 1349 331 1291 402 1291Z"],"\u00c9":[1235,"M165 0L1109 0L1109 196L393 196L393 655L1053 655L1053 850L393 850L393 1294L1103 1294L1103 1490L165 1490ZM549 1635L717 1635L915 1934L689 1934Z"],"\u00c8":[1235,"M165 0L1109 0L1109 196L393 196L393 655L1053 655L1053 850L393 850L393 1294L1103 1294L1103 1490L165 1490ZM556 1635L725 1635L586 1934L359 1934Z"],"\u00c0":[1452,"M51 0L298 0L431 393L1017 393L1154 0L1401 0L861 1490L581 1490ZM496 583L579 829C616 943 662 1098 720 1311C779 1100 824 948 864 829L950 583ZM643 1635L812 1635L672 1934L446 1934Z"],"\u00c7":[1502,"M665 -426L791 -426C953 -426 1025 -375 1025 -255C1025 -148 961 -96 833 -95L834 -18C1137 2 1355 204 1399 483L1169 483C1131 293 972 188 786 188C531 188 339 382 339 744C339 1104 530 1302 786 1302C972 1302 1131 1198 1169 1008L1398 1008C1348 1324 1098 1510 784 1510C398 1510 113 1222 113 744C113 292 368 10 725 -18L701 -188L786 -188C856 -188 881 -204 881 -252C881 -299 856 -316 786 -316L665 -316Z"]};

diff --git a/src/watermark.js b/src/watermark.js
@@ -1,4 +1,4 @@
-// Filigrane des PDF livrés : « Exemplaire personnel de <e-mail> » en bas de chaque page.
+// Filigrane des PDF livrés : « Exemplaire personnel de <e-mail>. Merci de ne pas le diffuser. » en bas de chaque page.
 // Méthode : mise à jour incrémentale (on ajoute quelques objets à la fin du fichier, sans le réécrire).
 // Le texte est dessiné en tracés vectoriels : aucune police à ajouter au PDF.
 // L'index (pages, xref) est calculé une seule fois au dépôt du fichier, le filigrane coûte ensuite quelques millisecondes.
@@ -82,9 +82,9 @@ export function indexPdf(bytes) {
   return { v: 1, len, size, startxref, root, info, id, pages };
 }
 
-function textPath(text, pt, x0, y0) {
+function textPath(text, pt, x0, y0, gray = 0.6) {
   const s = pt / UPM;
-  let ops = `q 0.6 g ${s.toFixed(6)} 0 0 ${s.toFixed(6)} ${x0.toFixed(2)} ${y0.toFixed(2)} cm\n`;
+  let ops = `q ${gray} g ${s.toFixed(6)} 0 0 ${s.toFixed(6)} ${x0.toFixed(2)} ${y0.toFixed(2)} cm\n`;
   for (const ch of text) {
     const g = GLYPHS[ch];
     if (!g) continue;
@@ -105,9 +105,9 @@ function textWidth(text, pt) {
 // Renvoie les octets à ajouter à la fin du PDF d'origine.
 export function stampTail(idx, label, opts = {}) {
   const skip = opts.skipFirst ? 1 : 0;
-  const pt = opts.size || 6.5;
+  const fontSize = opts.size || 6.5;
+  const gray = opts.gray == null ? 0.6 : opts.gray;
   const text = [...label].filter((c) => GLYPHS[c]).join('');
-  const w = textWidth(text, pt);
   let next = idx.size;
   const objs = [];
   const add = (n, g, body) => objs.push({ n, g, body });
@@ -122,7 +122,10 @@ export function stampTail(idx, label, opts = {}) {
     const key = `${x1},${y1},${x2}`;
     if (!stamps[key]) {
       stamps[key] = next++;
-      add(stamps[key], 0, stream(textPath(text, pt, x1 + (x2 - x1 - w) / 2, y1 + 12)));
+      // Taille demandée, réduite si la ligne (adresse longue) dépasse la largeur de la page.
+      const pt = Math.min(fontSize, (x2 - x1 - 60) / textWidth(text, 1));
+      const w = textWidth(text, pt);
+      add(stamps[key], 0, stream(textPath(text, pt, x1 + (x2 - x1 - w) / 2, y1 + 14, gray)));
     }
     let d = p.dict;
     const m = d.match(/\/Contents\s*(\[[^\]]*\]|\d+\s+\d+\s+R)/);

diff --git a/src/worker.js b/src/worker.js
@@ -905,7 +905,8 @@ async function download(req, env, ctx, url) {
         idx = indexPdf(bytes);
         await env.FILES.put(`pdfidx/${pdfSlug}/${i}.json`, JSON.stringify(idx));
       }
-      tail = stampTail(idx, 'Exemplaire personnel de ' + o.email, { skipFirst: true });
+      // Assez grand et assez foncé pour que l'acheteur le voie : c'est ce qui dissuade de partager le fichier.
+      tail = stampTail(idx, 'Exemplaire personnel de ' + o.email + '. Merci de ne pas le diffuser.', { skipFirst: true, size: 9, gray: 0.3 });
     } catch (err2) {
       console.error('filigrane', pdfSlug, i, err2 && err2.message);
     }

diff --git a/site/sw.js b/site/sw.js
@@ -1,4 +1,4 @@
-const CACHE_NAME = 'dilam-b-v10';
+const CACHE_NAME = 'dilam-b-v11';
 
 self.addEventListener('install', function () { self.skipWaiting(); });
 

diff --git a/tools/stamp_extract.py b/tools/stamp_extract.py
@@ -1,0 +1,70 @@
+# Marque « EXTRAIT » en rouge, en diagonale, sur les pages d'aperçu des ebooks (comme Chariow).
+# Le texte du livre reste lisible dessous : rouge transparent, un seul mot par page.
+#
+# Les originaux sans marque sont gardés hors du site, dans tools/apercus-originaux/ (jamais publiés),
+# pour pouvoir relancer le script sans empiler deux marques.
+#
+#   python3 tools/stamp_extract.py site/public/ebooks/esprit-aligne/apercus/page_13.jpg ...
+import math
+import os
+import shutil
+import sys
+
+from PIL import Image, ImageDraw, ImageFont
+
+FONT = '/usr/share/fonts/opentype/inter/Inter-Bold.otf'
+RED = (214, 40, 40)
+ALPHA = 92          # sur 255 : environ 36 % d'opacité
+WORD = 'EXTRAIT'
+
+
+def stamp(path):
+    rel = os.path.normpath(path).split('site/public/ebooks/', 1)
+    if len(rel) != 2:
+        raise SystemExit('Chemin attendu sous site/public/ebooks/ : ' + path)
+    original = os.path.join(os.path.dirname(__file__), 'apercus-originaux', rel[1])
+    os.makedirs(os.path.dirname(original), exist_ok=True)
+    if not os.path.exists(original):
+        shutil.copy2(path, original)
+
+    page = Image.open(original).convert('RGB')
+    w, h = page.size
+    # Taille de départ généreuse, ajustée ensuite pour tenir dans la page.
+    diag = (w * w + h * h) ** 0.5
+    size = 40
+    font = ImageFont.truetype(FONT, size)
+    while True:
+        box = font.getbbox(WORD)
+        tw = box[2] - box[0] + size * 0.12 * (len(WORD) - 1)
+        if tw > diag * 0.8:
+            break
+        size += 4
+        font = ImageFont.truetype(FONT, size)
+
+    spacing = size * 0.12
+    widths = [font.getlength(c) for c in WORD]
+    total = sum(widths) + spacing * (len(WORD) - 1)
+    asc, desc = font.getmetrics()
+    layer = Image.new('RGBA', (int(total) + 20, asc + desc + 20), (0, 0, 0, 0))
+    d = ImageDraw.Draw(layer)
+    x = 10
+    for c, cw in zip(WORD, widths):
+        d.text((x, 10), c, font=font, fill=RED + (ALPHA,))
+        x += cw + spacing
+    # Le mot suit la diagonale de la page, du bas à gauche vers le haut à droite.
+    angle = max(25, min(55, math.degrees(math.atan2(h, w))))
+    layer = layer.rotate(angle, expand=True, resample=Image.BICUBIC)
+    # Il doit tenir entièrement dans la page, avec une marge.
+    k = min(1, 0.86 * w / layer.width, 0.86 * h / layer.height)
+    if k < 1:
+        layer = layer.resize((int(layer.width * k), int(layer.height * k)), Image.LANCZOS)
+
+    canvas = page.convert('RGBA')
+    canvas.alpha_composite(layer, ((w - layer.width) // 2, (h - layer.height) // 2))
+    canvas.convert('RGB').save(path, 'JPEG', quality=84, optimize=True, progressive=True)
+    print('marqué', path)
+
+
+if __name__ == '__main__':
+    for p in sys.argv[1:]:
+        stamp(p)

diff --git a/tools/glyphs.py b/tools/glyphs.py
@@ -5,7 +5,7 @@ from fontTools.pens.recordingPen import RecordingPen
 import json
 f = TTFont('/usr/share/fonts/opentype/inter/Inter-Medium.otf')
 gs = f.getGlyphSet(); cmap = f.getBestCmap(); upm = f['head'].unitsPerEm
-chars = "abcdefghijklmnopqrstuvwxyz0123456789.-_+@%'E :"
+chars = "abcdefghijklmnopqrstuvwxyzABCDEFGHIJKLMNOPQRSTUVWXYZ0123456789.,;!?-_+@%'’ :()/&éèêëàâäçîïôöûùüÉÈÀÇ"
 out = {}
 for ch in chars:
     gn = cmap[ord(ch)]; g = gs[gn]; pen = RecordingPen(); g.draw(pen)
